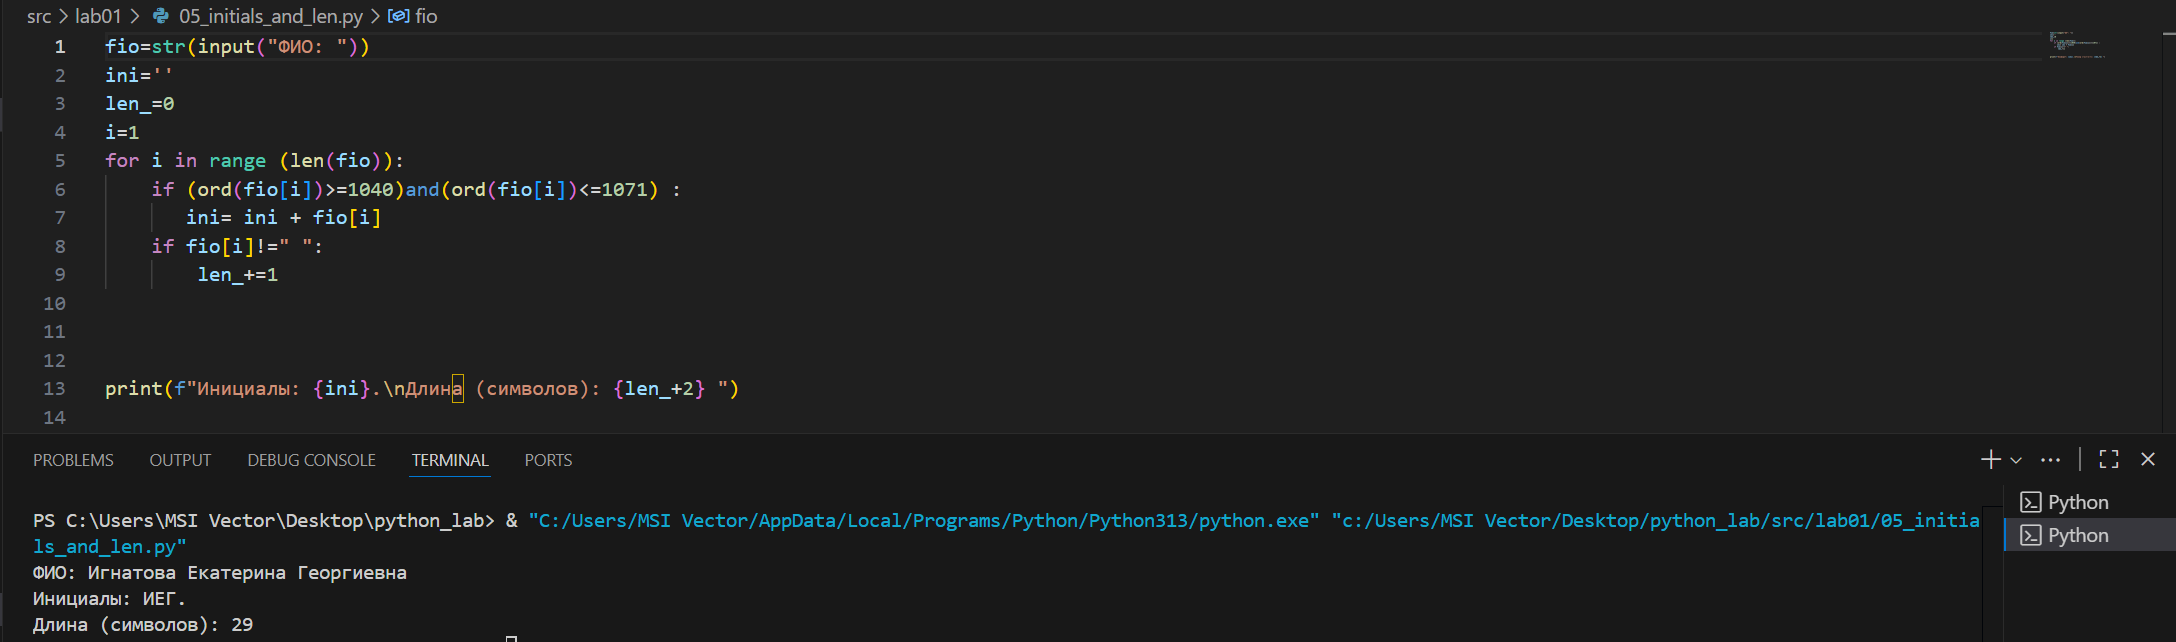
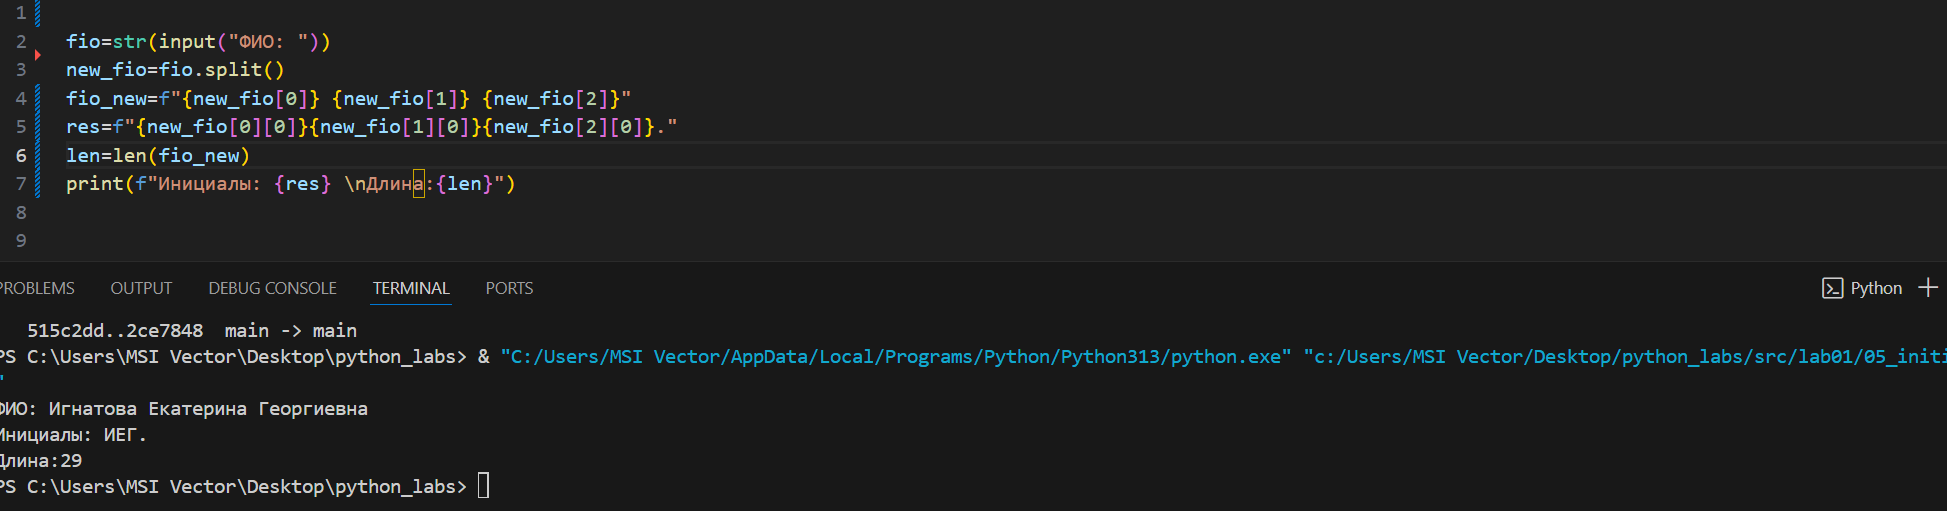
lab

diff --git a/src/lab01/05_initials_and_len.py b/src/lab01/05_initials_and_len.py
@@ -1,26 +1,9 @@
-"""
+
 fio=str(input("ФИО: "))
-ini=''
-len_=0
-i=1
-for i in range (len(fio)):
-    if (ord(fio[i])>=1040)and(ord(fio[i])<=1071) : 
-       ini= ini + fio[i]
-    if fio[i]!=" ":
-        len_+=1
-
-
-
-print(f"Инициалы: {ini}.\nДлина (символов): {len_+2} ")
-"""
-fio=str(input("ФИО: "))
-ini=''
-len_=0
-
 new_fio=fio.split()
-
-res=f"{new_fio[0][0]}{new_fio[1][0]}{new_fio[2][0]} "
-
-print(f"{res}")
+fio_new=f"{new_fio[0]} {new_fio[1]} {new_fio[2]}"
+res=f"{new_fio[0][0]}{new_fio[1][0]}{new_fio[2][0]}."
+len=len(fio_new)
+print(f"Инициалы: {res} \nДлина:{len}")
 
 
